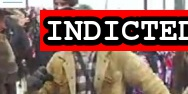
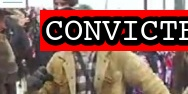
Latest sentences

Changed region(s): [[0.2128, 0.1489, 1.0, 0.5106], [0.9309, 0.4681, 0.9574, 0.4894], [0.8245, 0.1702, 0.8511, 0.1915]]

diff --git a/docs/_suspects/michael-perkins.md b/docs/_suspects/michael-perkins.md
@@ -4,11 +4,11 @@ lastName: Perkins
 hashtag: MichaelPerkins
 aka:
 residence: Florida
-status: Indicted
+status: Convicted
 date: 2021-06-29
 charged: 2021-06-29
 indicted: 2021-07-01
-convicted:
+convicted: 2023-03-15
 acquitted:
 sentenced:
 dismissed:
@@ -32,7 +32,7 @@ raid:
 perpwalk:
 quote:
 title: Michael Perkins charged on June 29, 2021
-description: Click for latest case details. Suspects innocent until proven guilty.
+description: Convicted on March 15, 2023. Click for latest case details.
 author: seditiontrack
 layout: suspect
 published: true
@@ -40,14 +40,39 @@ caseNumber: 21-cr-0447
 caseName: USA v. PERKINS
 judge: Carl J. Nichols
 videos:
-- title: GX 4.mp4 (0:00:27)
-  url: https://propublica-data-j6cases-videos.s3.us-east-1.amazonaws.com/84aeac70ce2b013960702cde48001122.mp4
-- title: GX 8.mp4 (0:00:09)
-  url: https://propublica-data-j6cases-videos.s3.us-east-1.amazonaws.com/891345a0ce2b013960702cde48001122.mp4
+  - title: GX 4.mp4 (0:00:27)
+    url: https://propublica-data-j6cases-videos.s3.us-east-1.amazonaws.com/84aeac70ce2b013960702cde48001122.mp4
+  - title: GX 8.mp4 (0:00:09)
+    url: https://propublica-data-j6cases-videos.s3.us-east-1.amazonaws.com/891345a0ce2b013960702cde48001122.mp4
 charges:
+  - code: 18 USC § 231(a)(3)
+    title: Obstruction of Law Enforcement During Civil Disorder
+    url: https://www.law.cornell.edu/uscode/text/18/231
+    felony: true
+  - code: 18 USC § 111(a)(1) and (b)
+    title: Assaulting, resisting, or impeding certain officers or employees (using a deadly or dangerous weapon)
+    url: https://www.law.cornell.edu/uscode/text/18/111
+    felony: true
+  - code: 18 USC § 1752(a)(1) and b(1)(A)
+    title: Entering a restricted building or grounds (w/a deadly weapon)
+    url: https://www.law.cornell.edu/uscode/text/18/1752
+    felony: true
+  - code: 18 USC § 1752(a)(2) and b(1)(A)
+    title: Disorderly and Disruptive Conduct in a Restricted Building or Grounds (w/a deadly weapon)
+    url: https://www.law.cornell.edu/uscode/text/18/1752
+    felony: true
+  - code: 18 USC § 1752(a)(4), (b)(1)(A)
+    title: Entering a restricted building or grounds with a dangerous or deadly weapon
+    url: https://www.law.cornell.edu/uscode/text/18/1752
+    felony: true
+  - code: 40 USC § 5104(e)(2)(F)
+    title: Act of physical violence on Capitol grounds
+    url: https://www.law.cornell.edu/uscode/text/40/5104
+    felony: false
 sentence:
 ---
+
 - [News Report](https://www.wfla.com/news/polk-county/polk-county-emt-among-arrests-linked-to-jan-6-capitol-riot/)
 - [Statement of Facts](https://www.justice.gov/usao-dc/case-multi-defendant/file/1410336/download)
-- [Indictment](https://www.justice.gov/usao-dc/case-multi-defendant/file/1410341/download)
+- [Indictment](https://storage.courtlistener.com/recap/gov.uscourts.dcd.233018/gov.uscourts.dcd.233018.116.0_2.pdf)
 - [Bodycam Evidence (Video)](https://twitter.com/ryanjreilly/status/1414641655110639616)

diff --git a/docs/_suspects/joshua-doolin.md b/docs/_suspects/joshua-doolin.md
@@ -4,11 +4,11 @@ lastName: Doolin
 hashtag: TanCordSprayer
 aka:
 residence: Florida
-status: Indicted
+status: Convicted
 date: 2021-06-25
 charged: 2021-06-25
 indicted: 2021-07-01
-convicted:
+convicted: 2023-03-15
 acquitted:
 sentenced:
 dismissed:
@@ -32,7 +32,7 @@ raid:
 perpwalk:
 quote:
 title: Joshua Doolin charged on June 25, 2021
-description: Click for latest case details. Suspects innocent until proven guilty.
+description: Convicted on March 15, 2023. Click for latest case details.
 author: seditiontrack
 layout: suspect
 published: true
@@ -41,10 +41,27 @@ caseName: USA v. DOOLIN
 judge: Carl J. Nichols
 videos:
 charges:
+  - code: 18 USC § 641
+    title: Theft of Government Property
+    url: https://www.law.cornell.edu/uscode/text/18/641
+    felony: false
+  - code: 18 USC § 231(a)(3)
+    title: Obstruction of Law Enforcement During Civil Disorder
+    url: https://www.law.cornell.edu/uscode/text/18/231
+    felony: true
+  - code: 18 USC § 1752(a)(1)
+    title: Entering a restricted building or grounds
+    url: https://www.law.cornell.edu/uscode/text/18/1752
+    felony: false
+  - code: 18 USC § 1752(a)(2)
+    title: Disorderly and disruptive conduct in a restricted building or grounds
+    url: https://www.law.cornell.edu/uscode/text/18/1752
+    felony: false
 sentence:
 ---
+
 - [News Report](https://www.msn.com/en-us/news/crime/plant-city-man-two-others-arrested-in-jan-6-capitol-siege/ar-AALDtyT)
-- [Indictment](https://www.justice.gov/usao-dc/case-multi-defendant/file/1410341/download)
+- [Indictment](https://storage.courtlistener.com/recap/gov.uscourts.dcd.233018/gov.uscourts.dcd.233018.116.0_2.pdf)
 - [Statement of Facts](https://www.justice.gov/usao-dc/case-multi-defendant/file/1410336/download)
 - [Defense Motion for Modification of Bond](https://extremism.gwu.edu/sites/g/files/zaxdzs2191/f/Joshua%20Christopher%20Doolin%20Defense%20Motion%20for%20Modification%20of%20Conditions%20of%20Release.pdf)
 - [Government's Opposition to Modifying Conditions of Release](https://extremism.gwu.edu/sites/g/files/zaxdzs2191/f/Joshua%20Christopher%20Doolin%20Government%20Opposition%20to%20Motion%20to%20Modify%20Conditions%20of%20Release.pdf)

diff --git a/docs/_suspects/kenneth-armstrong.md b/docs/_suspects/kenneth-armstrong.md
@@ -4,11 +4,11 @@ lastName: Armstrong
 hashtag:
 aka: Big Fish
 residence: California
-status: Charged
+status: Convicted
 date: 2022-01-18
 charged: 2022-01-18
 indicted:
-convicted:
+convicted: 2023-03-10
 acquitted:
 sentenced:
 dismissed:
@@ -32,7 +32,7 @@ raid:
 perpwalk:
 quote:
 title: Kenneth Armstrong charged on January 18, 2022
-description: Click for latest case details. Suspects innocent until proven guilty.
+description: Convicted on March 10, 2023. Click for latest case details.
 author: seditiontrack
 layout: suspect
 published: true
@@ -41,8 +41,13 @@ caseName: USA v. ARMSTRONG
 judge: Royce C. Lamberth
 videos:
 charges:
+  - code: 40 USC § 5104(e)(2)(G)
+    title: Parading, demonstrating or picketing in a Capitol building
+    url: https://www.law.cornell.edu/uscode/text/40/5104
+    felony: false
 sentence:
 ---
+
 - [News Report](https://www.ktvu.com/news/peninsula-farm-owner-latest-bay-area-resident-charged-in-capitol-riot)
 - [Statement of Facts](https://www.justice.gov/usao-dc/case-multi-defendant/file/1481466/download)
-- [Information](https://extremism.gwu.edu/sites/g/files/zaxdzs2191/f/Kenneth%20Scott%20Armstrong%20III%20Informaiton.pdf)
+- [Information](https://storage.courtlistener.com/recap/gov.uscourts.dcd.239947/gov.uscourts.dcd.239947.9.0.pdf)

diff --git a/docs/_suspects/anthony-griffith.md b/docs/_suspects/anthony-griffith.md
@@ -2,20 +2,20 @@
 name: Anthony Griffith
 lastName: Griffith
 hashtag: AnthonyGriffith
-aka:
+aka: Tony Griffith
 residence: Oklahoma
 status: Indicted
 date: 2021-02-22
 charged: 2021-02-22
 indicted: 2021-03-24
-convicted: 
+convicted:
 acquitted:
-sentenced: 
-dismissed: 
+sentenced:
+dismissed:
 deceased:
 plea_hearing:
-trial_date:
-trial_type:
+trial_date: 2023-03-13
+trial_type: Bench Trial
 jury_selection:
 sentencing:
 status_conference:
@@ -43,6 +43,7 @@ videos:
 charges:
 sentence:
 ---
+
 - [News Report](https://tulsaworld.com/news/state-and-regional/crime-and-courts/two-fort-gibson-men-arrested-in-connection-with-u-s-capitol-riot/article_fbceb6d8-7d3b-11eb-8b67-eb689946da92.html)
 - [Statement of Facts](https://www.justice.gov/usao-dc/case-multi-defendant/file/1378856/download)
 - [Indictment](https://www.justice.gov/usao-dc/case-multi-defendant/file/1381761/download)

diff --git a/docs/_suspects/larry-giberson.md b/docs/_suspects/larry-giberson.md
@@ -30,18 +30,20 @@ courtroom:
 courthouse:
 raid:
 perpwalk:
-quote: 'Drag them out!'
+quote: "Drag them out!"
 title: Larry Giberson charged on 3/10/2023
 description: Click for latest case details. Suspects innocent until proven guilty.
 author: seditiontrack
 layout: suspect
 published: true
-caseNumber: 
+caseNumber:
 caseName: USA v. GIBERSON
 judge:
 videos:
 charges:
 sentence:
 ---
+
 - [News Report](https://www.cbsnews.com/news/larry-giberson-princeton-student-charged-jan-6-capitol-attack/)
 - [Statement of Facts](https://storage.courtlistener.com/recap/gov.uscourts.dcd.253038/gov.uscourts.dcd.253038.1.1.pdf)
+- [DOJ Press Release (Arrest)](https://www.justice.gov/usao-dc/pr/new-jersey-man-arrested-felony-and-misdemeanor-charges-actions-lower-west-terrace-during)

diff --git a/docs/_suspects/jonathan-pollock.md b/docs/_suspects/jonathan-pollock.md
@@ -43,6 +43,7 @@ videos:
 charges:
 sentence:
 ---
+
 - [News Report](https://twitter.com/MacFarlaneNews/status/1412898239695790086)
-- [Indictment](https://www.justice.gov/usao-dc/case-multi-defendant/file/1410341/download)
+- [Indictment](https://storage.courtlistener.com/recap/gov.uscourts.dcd.233018/gov.uscourts.dcd.233018.116.0_2.pdf)
 - [Statement of Facts](https://extremism.gwu.edu/sites/g/files/zaxdzs2191/f/Pollock%20et%20al%20Affidavit%20in%20Support%20of%20Criminal%20Complaint.pdf)

diff --git a/docs/_suspects/olivia-pollock.md b/docs/_suspects/olivia-pollock.md
@@ -43,6 +43,7 @@ videos:
 charges:
 sentence:
 ---
+
 - [News Report](https://www.tampabay.com/news/florida/2021/06/30/plant-city-man-two-others-arrested-in-jan-6-capitol-siege/)
 - [Statement of Facts](https://www.justice.gov/usao-dc/case-multi-defendant/file/1410336/download)
-- [Indictment](https://www.justice.gov/usao-dc/case-multi-defendant/file/1410341/download)
+- [Indictment](https://storage.courtlistener.com/recap/gov.uscourts.dcd.233018/gov.uscourts.dcd.233018.116.0_2.pdf)
